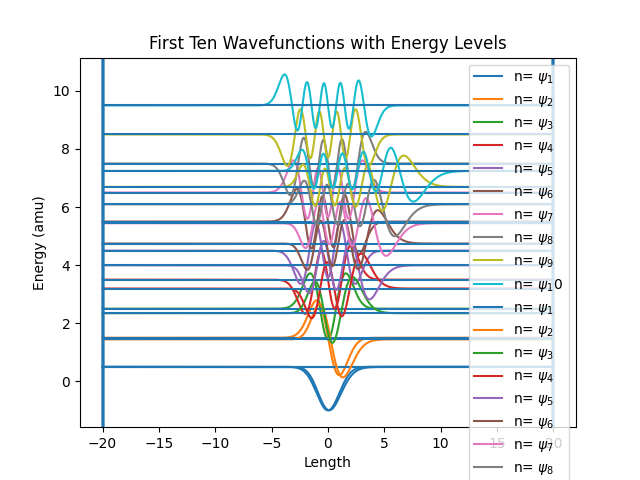
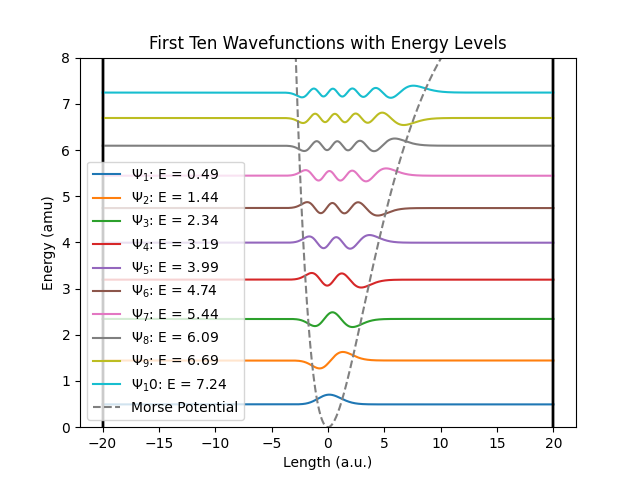
Finalize HW-2-grad

diff --git a/homework-2-grad/oscillator.py b/homework-2-grad/oscillator.py
@@ -16,16 +16,27 @@ dx = (L)/(n-1)
 grid = np.linspace(-L / 2, L / 2, n)
 
 #Potential Matrix (Harmonic and Anharmoic)
-# Potential Matrix (Harmonic and Anharmonic)
 def harmonic_matrix(grid):
+    """Computes the harmonic potential
+    Parameters:
+        grid: the size of the space in which potentials will be calculated
+    Returns:
+        list: Harmonic potentials over the grid space. 
+    """
     V_harmonic = 0.5 * m * omega**2 * (grid**2)
-    return np.diag(V_harmonic) 
+    return (V_harmonic) 
 
 def anharmonic_matrix(grid):
+    """Computes the anharmonic (Morse) potential
+    Parameters:
+        grid: the size of the space in which potentials will be calculated
+    Returns:
+        list: Harmonic potentials over the grid space. 
+    """
     x_0 = 0  # You can change this if needed
     anh_exp = np.exp(-beta * (grid - x_0))
     V_anharmonic = D * (1 - anh_exp)**2
-    return np.diag(V_anharmonic)  
+    return (V_anharmonic)  
 
 #Laplacian Matrix
 diagonal = -2 * np.ones(n) 
@@ -34,17 +45,21 @@ off_diagonal = np.ones(n-1)
 laplacian = (1/dx**2)*(np.diag(diagonal, k=0) + np.diag(off_diagonal, k=1) + np.diag(off_diagonal, k=-1))
 
 #Hamiltonian Matrix
-harmonic_V = harmonic_matrix(grid)
+harmonic_V = np.diag(harmonic_matrix(grid))
 def hamil():
+    """Computes the harmonic Hamiltonian
+    """
     hamiltonian_matrix = (-((h_bar**2) / (2 * m)) * laplacian) + harmonic_V
     return hamiltonian_matrix
 
-anharmonic_V = anharmonic_matrix(grid)
+anharmonic_V = np.diag(anharmonic_matrix(grid))
 def an_hamil():
+    """Computes the anharmonic Hamiltonian
+    """
     hamiltonian_matrix_morse = -((h_bar**2) / (2 * m)) * laplacian + anharmonic_V
     return hamiltonian_matrix_morse
 
-#Compute eigenvalues and eigenvectors
+#Compute and sort eigenvalues and eigenvectors (energies)
 eigenvalues_h, eigenvectors_h = np.linalg.eigh(hamil())
 sort = np.argsort(eigenvalues_h)
 eigenvalues_h = eigenvalues_h[sort]
@@ -55,31 +70,32 @@ eigenvalues_ah = eigenvalues_ah[sort]
 
 #Harmonic Graph                                          
 for i in range(10):                               
-    wavefunction_h= -eigenvectors_h[:, i]                                  
-    wavefunction_h= wavefunction_h/(np.sqrt(np.sum(wavefunction_h**2)*dx))    #Normalize Wavefunction
+    wavefunction_h= eigenvectors_h[:, i]                                  
     y=2*wavefunction_h+eigenvalues_h[i]                                     
-    plt.plot(grid,y, label=f"n= $\psi_{i+1}$")                               
-    plt.axvline(x=L/2)                  
-    plt.axvline(x=-L/2)
-    plt.hlines(eigenvalues_h[i],-L/2, L/2)               
+    plt.plot(grid,y, label=f"$\u03A8_{i+1}$: E = {eigenvalues_h[i]:.2f}")                             
+    plt.axvline(x=L/2, color = 'black')                  
+    plt.axvline(x=-L/2, color = 'black') 
+plt.plot(grid, harmonic_matrix(grid), color = "grey", linestyle= "--", label = "Harmonic Potential")            
 plt.title("First Ten Wavefunctions with Energy Levels")
-plt.xlabel("Length")
+plt.xlabel("Length (a.u.)")
 plt.ylabel("Energy (amu)")
+plt.ylim(0, 10)
 plt.legend()
 plt.savefig("First_10_harmonic")
 
 #Anharmonic Graph
+plt.clf()
 for i in range(10):                               
-    wavefunction_ah= -eigenvectors_ah[:, i]                                  
-    wavefunction_ah= wavefunction_ah/(np.sqrt(np.sum(wavefunction_ah**2)*dx))   
+    wavefunction_ah= eigenvectors_ah[:, i]                                  
     y=2*wavefunction_ah+eigenvalues_ah[i]                                     
-    plt.plot(grid,y, label=f"n= $\psi_{i+1}$")                               
-    plt.axvline(x=L/2)                  
-    plt.axvline(x=-L/2)
-    plt.hlines(eigenvalues_ah[i],-L/2, L/2)               
+    plt.plot(grid,y, label=f"$\u03A8_{i+1}$: E = {eigenvalues_ah[i]:.2f}")                               
+    plt.axvline(x=L/2, color = 'black')                  
+    plt.axvline(x=-L/2, color = 'black')   
+plt.plot(grid, anharmonic_matrix(grid), color = "grey", linestyle= "--", label = "Morse Potential")                       
 plt.title("First Ten Wavefunctions with Energy Levels")
-plt.xlabel("Length")
+plt.xlabel("Length (a.u.)")
 plt.ylabel("Energy (amu)")
+plt.ylim(0, 8)
 plt.legend()
 plt.savefig("First_10_anharmonic")
 
